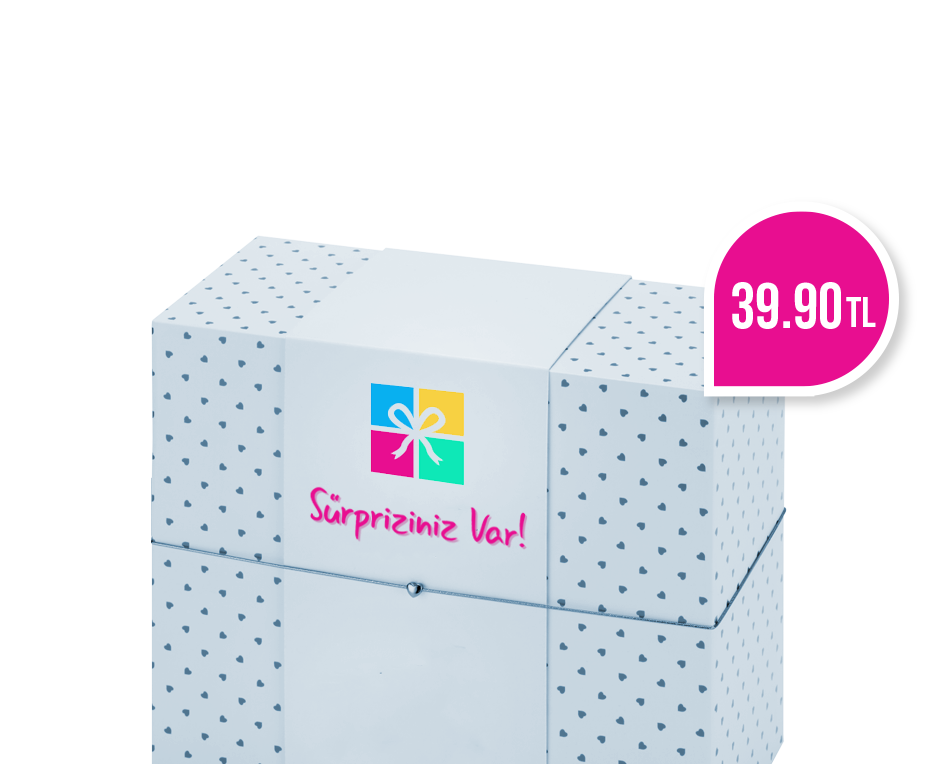
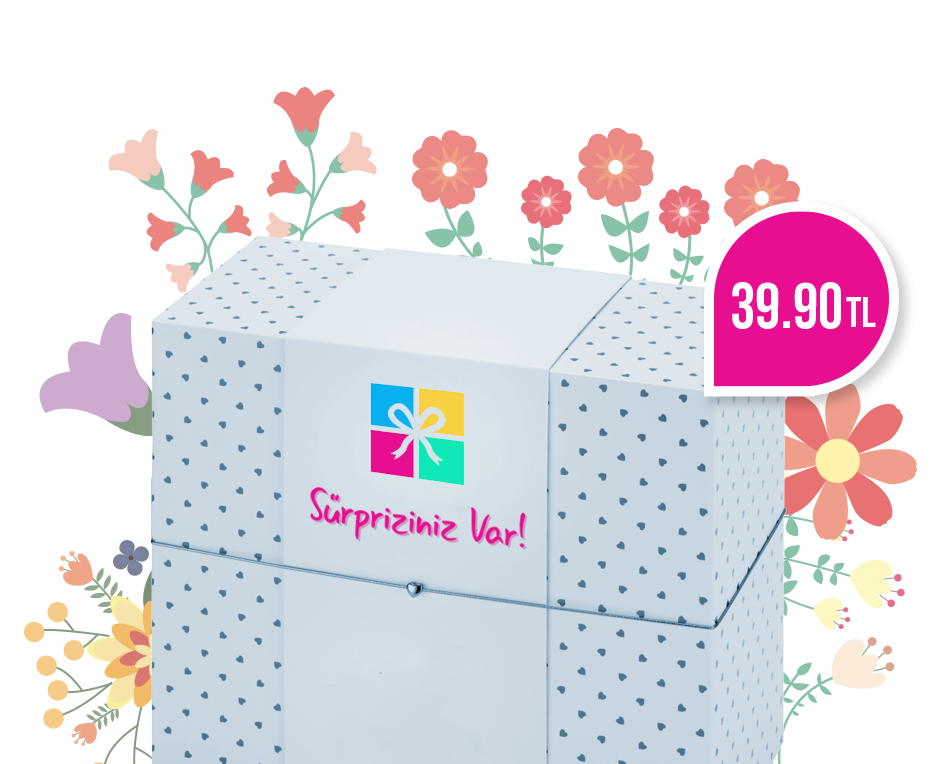
share test

diff --git a/index.html b/index.html
@@ -27,6 +27,7 @@
 
 	<!-- Favicon Icon -->
 	<link rel="shortcut icon" href="img/favicon.ico">
+	<script type='text/javascript' src='//dsms0mj1bbhn4.cloudfront.net/assets/pub/shareaholic.js' data-shr-siteid='574553c4ac764d2faab0b3c5aeae34b8' data-cfasync='false' async='async'></script>
 
 </head>
 <body>
@@ -77,20 +78,20 @@
 
 				<div class="top-headline">
 					<img src="img/kutu_slider.png">
-					<h1 class="headline-title">Her ay yenilenen temalarıyla birbirinden güzel ürünlerden oluşan sürpriz paketinizi keşfedin!</h1>
+					<h1 class="headline-title">Her ay yenilenen temalarıyla birbirinden güzel ürünlerden oluşan sürpriz kutunuzu keşfedin!</h1>
 
 						<div class="separator"><img src="img/mini_logo.png"></div>
 
 					<h4 class="description">
-						Sizleri mutlu edecek özenle seçilmiş ürünlerden oluşan sürpriz paketiniz sadece 39.90 TL.
+						Sizleri mutlu edecek özenle seçilmiş ürünlerden oluşan sürpriz kutunuz sadece 39.90 TL.
 						<br>Üstelik kargo Türkiye'nin her yerine ücretsiz!
 					</h4>
 
-					<div class="detail-button">
+					<!--<div class="detail-button">
 
-						<!--<a href="#" class="btn scrolling-btn">Hemen Alın</a>-->
+						<a href="#" class="btn scrolling-btn">Hemen Alın</a>
 
-					</div> <!-- end detail-button -->
+					</div>-->
 
 				</div> <!-- end headline -->
 
@@ -245,7 +246,7 @@
 
 					<div class="p-name">3. Beğen</div>
 
-					<span class="dt-start">Sürprizim Var kutularıya hayatınıza renk katın.<br><br><br></span>
+					<span class="dt-start">Sürprizim Var kutularıya hayatınıza renk katın.<br><div class='shareaholic-canvas' data-app='share_buttons' data-app-id=''></div><br><br></span>
 
 				</div> <!-- end features-wrap -->
 

diff --git a/css/background.css b/css/background.css
@@ -30,7 +30,7 @@
 
 /* 2. Custom Front Page */
 .front-header {
-  background: url('../img/background-1.png') repeat-y center bottom;
+  background: url('../img/background-2.png') repeat-y center bottom;
   max-width: 100%;
   min-height: 570px;
   position: relative;
